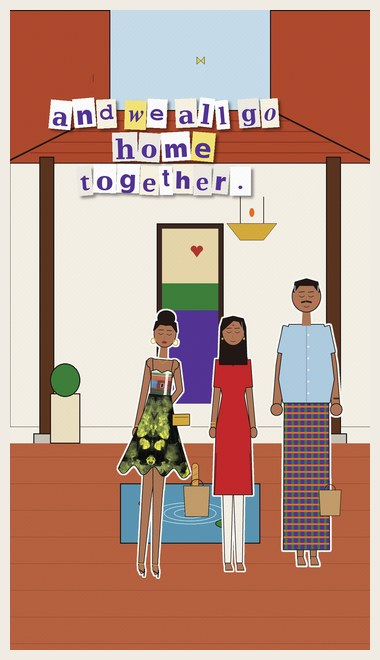
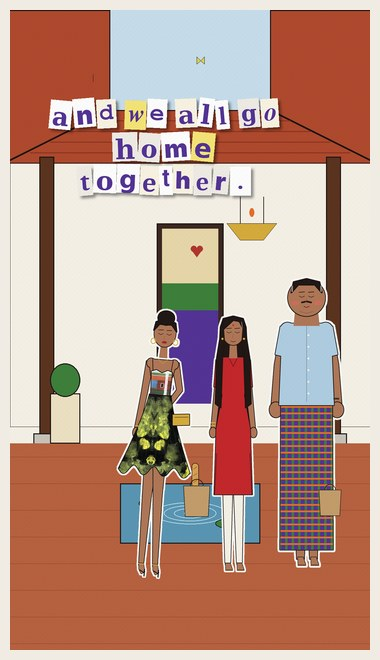
Reel 4: longer hair and visible neck for Mum, evenly chubby Dad
Claude-Session: https://claude.ai/code/session_019PesBvg4SEFhUJP6SN77P7

Changed region(s): [[0.6947, 0.4242, 0.9263, 0.8788], [0.55, 0.4848, 0.6658, 0.6364]]

diff --git a/reel4/render.py b/reel4/render.py
@@ -160,17 +160,19 @@ def elder(kind, laugh=False):
     Dad: a half-sleeve shirt and a checked kaili lungi, a watch."""
     c = Canvas()
     mum = kind == "mum"
+    if mum:   # long straight hair falls behind her back, past the waist
+        c.fill(_poly([(338, 150), (352, 108), (400, 96), (448, 108), (462, 150), (484, 600), (452, 640), (348, 640), (316, 600)]), HAIR)
     # legs and flat sandals, same construction as the girl
     for side, x_hip, x_ank in [(-1, 380, 374), (1, 420, 430)]:
-        c.fill(_limb([(x_hip, 760), (x_hip + side * 6, 960), (x_ank, 1300)], 62, 22), SKIN)
+        c.fill(_limb([(x_hip, 760), (x_hip + side * 6, 960), (x_ank, 1300)], 62 if mum else 80, 22 if mum else 32), SKIN)
         c.fill(_poly([(x_ank - 11, 1292), (x_ank + 11, 1292), (x_ank + 22, 1324), (x_ank - 10, 1324)]), SKIN, ow=2)
         c.line([(x_ank - 12, 1326), (x_ank + 24, 1326)], (110, 70, 40), 6)
     if mum:   # leggings over the legs
         c.fill(_union(_limb([(380, 760), (374, 960), (374, 1290)], 64, 26), _limb([(420, 760), (426, 960), (430, 1290)], 64, 26)), WHITE)
     # arms
-    ax = 0 if mum else 30                                                                   # Dad is broader
-    c.fill(_limb([(338 - ax / 2, 312), (322 - ax, 470), (304 - ax, 640)], 34 + ax / 2, 22 + ax / 3), SKIN); c.fill(_ell(302 - ax, 660, 16 + ax / 4, 24), SKIN)
-    c.fill(_limb([(462 + ax / 2, 312), (478 + ax, 470), (496 + ax, 640)], 34 + ax / 2, 22 + ax / 3), SKIN); c.fill(_ell(498 + ax, 660, 16 + ax / 4, 24), SKIN)
+    ax = 0 if mum else 34                                                                   # Dad is broader
+    c.fill(_limb([(338 - ax / 2, 312), (322 - ax, 470), (304 - ax, 640)], 34 + ax * 0.8, 22 + ax * 0.6), SKIN); c.fill(_ell(302 - ax, 660, 16 + ax / 3, 24 + ax / 4), SKIN)
+    c.fill(_limb([(462 + ax / 2, 312), (478 + ax, 470), (496 + ax, 640)], 34 + ax * 0.8, 22 + ax * 0.6), SKIN); c.fill(_ell(498 + ax, 660, 16 + ax / 3, 24 + ax / 4), SKIN)
     if mum:
         kurti = (196, 40, 44)                                                                 # simple red kurti
         c.fill(_union(_poly([(334, 296), (466, 296), (474, 380), (452, 480), (482, 640), (492, 960), (308, 960), (318, 640), (348, 480), (326, 380)]),
@@ -182,27 +184,32 @@ def elder(kind, laugh=False):
         lungi = Image.new("RGB", c.rgb.size, PURP); dl = ImageDraw.Draw(lungi)
         for x in range(0, c.rgb.size[0], 56): dl.rectangle((x, 0, x + 20, c.rgb.size[1]), fill=GRN)
         for y in range(0, c.rgb.size[1], 56): dl.rectangle((0, y, c.rgb.size[0], y + 14), fill=(232, 110, 40))
-        c.fill(_poly([(306, 580), (494, 580), (498, 1260), (302, 1260)]), lungi)
+        c.fill(_poly([(290, 580), (510, 580), (514, 1260), (286, 1260)]), lungi)
         c.line([(400, 562), (412, 640)], OUT, 3)                                              # knot fold
         shirt = (176, 206, 226)
-        c.fill(_union(_poly([(326, 296), (474, 296), (506, 430), (518, 530), (500, 630), (300, 630), (282, 530), (294, 430)]),
-                      _limb([(330, 308), (300, 420)], 60, 48), _limb([(470, 308), (500, 420)], 60, 48)), shirt)   # round tummy
+        c.fill(_union(_poly([(310, 290), (490, 290), (508, 400), (518, 640), (282, 640), (292, 400)]),
+                      _ell(318, 316, 30, 30), _ell(482, 316, 30, 30),
+                      _limb([(322, 310), (294, 430)], 70, 58), _limb([(478, 310), (506, 430)], 70, 58)), shirt)   # soft, broad, evenly chubby
         c.line([(400, 300), (400, 626)], (120, 140, 160), 2)
         for y in range(340, 600, 50): c.fill(_ell(408, y, 4, 4), WHITE, outline=False)
         c.line([(516, 612), (540, 612)], (60, 50, 40), 7)                                     # watch
     c.fill(_poly([(384, 225), (416, 225), (420, 300), (380, 300)]), SKIN, outline=False)
     if mum:   # straight hair down to the shoulders, one soft grey strand
-        c.fill(_poly([(340, 150), (352, 110), (400, 98), (448, 110), (460, 150), (466, 330), (334, 330)]), HAIR)
         c.fill(_ell(400, 170, 52, 66), SKIN)
         c.fill(_poly([(346, 166), (354, 116), (400, 102), (446, 116), (454, 166), (430, 122), (400, 116)]), HAIR)
         c.line([(440, 124), (452, 200)], (150, 146, 140), 3)
         c.fill(_ell(400, 140, 4, 4), RED, outline=False)
+        for sd in (-1, 1):    # long strands over the front of each shoulder, down to the waist
+            x0 = 400 + sd * 50
+            c.fill(_poly([(x0, 130), (x0 + sd * 14, 200), (x0 + sd * 30, 300), (x0 + sd * 36, 520), (x0 + sd * 10, 540), (x0 + sd * 2, 300), (x0 - sd * 6, 210)]), HAIR)
         for ex in (348, 452): c.fill(_ell(ex, 206, 5, 5), GOLD, outline=False)
     else:     # rounder, cuter face with soft cheeks
-        c.fill(_ell(400, 174, 60, 66), SKIN)
-        for ex in (358, 442): c.fill(_ell(ex, 200, 13, 8), (200, 110, 90), outline=False)
-        c.fill(_poly([(346, 156), (352, 114), (400, 100), (448, 114), (454, 156), (432, 126), (368, 126)]), HAIR)
-        for ex in (350, 450): c.line([(ex, 128), (ex, 154)], (150, 146, 140), 6)             # greying temples
+        c.fill(_poly([(352, 220), (448, 220), (456, 300), (344, 300)]), SKIN, outline=False)   # thick neck
+        c.fill(_ell(400, 180, 80, 78), SKIN)
+        c.line([(370, 238), (400, 246), (430, 238)], dress.SKIN_SH, 3)                       # soft double chin
+        for ex in (352, 448): c.fill(_ell(ex, 202, 16, 10), (204, 112, 92), outline=False)
+        c.fill(_poly([(334, 158), (344, 112), (400, 98), (456, 112), (466, 158), (436, 124), (364, 124)]), HAIR)
+        for ex in (338, 462): c.line([(ex, 128), (ex, 154)], (150, 146, 140), 6)             # greying temples
         c.line([(378, 200), (400, 195), (422, 200)], HAIR, 7)                                 # moustache
     for ex in (380, 420):                                                                     # same eyes as the girl
         c.line([(ex - 12, 172), (ex, 178), (ex + 12, 172)], OUT, 2.4)
